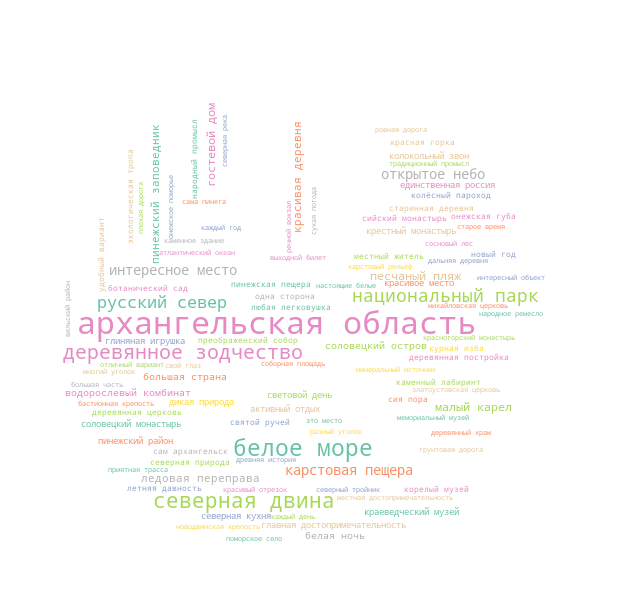
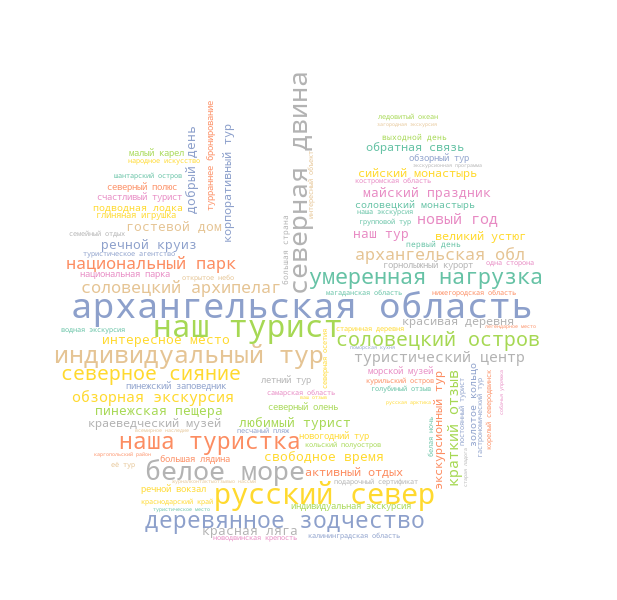
исправил некорректное сохранение некоторых url адресов, увеличил размер слов

Changed region(s): [[0.0924, 0.12, 0.893, 0.9]]

diff --git a/parser.py b/parser.py
@@ -1,8 +1,9 @@
 import requests
 from bs4 import BeautifulSoup
+from urllib.parse import unquote
 
 # URL страницы
-def get_links(query, num_pages=3):
+def get_links(query, num_pages=1):
     links = []
     for page in range(num_pages):
         start = page * 10 # сколько ссылок со страницы поиска возьмется
@@ -17,13 +18,17 @@ def get_links(query, num_pages=3):
             if parent and 'href' in parent.attrs:
                 url = parent['href']
                 border = url.find('&sa')
-                # print(url[7:border])
-                links.append(url[7:border])
+                # убираем лишние данные из url
+                url = unquote(url[7:border])
+                links.append(url)
 
     return links  # Возвращаем первые 5 ссылок
 
-user_query = "туристические места Архангельская область"
-urls = get_links(user_query)
+# user_query = "туристические места Архангельская область"
+# user_query = "Архангельская область природные достопримечательности"
+user_query = "Архангельская область отзывы у путешествии по региону"
+urls = get_links(user_query, 2)
+print(len(urls))
 # for url in urls:
 #     print(url)
 

diff --git a/main.py b/main.py
@@ -14,6 +14,7 @@ from nltk.collocations import *
 from nltk.tokenize import RegexpTokenizer
 import pymorphy3
 from collections import Counter
+from math import sqrt, ceil
 # при первом запуске раскомментить
 # nltk.download('punkt_tab')
 # nltk.download('omw-1.4')
@@ -88,7 +89,7 @@ def __get_pairs_n(all_counts):
     else:
       # выбираем оставляем неподходящие словосочетания или пропускаем
       continue
-      # norm_pairs.append((pair, freq))
+      # norm_pairs.append(((first, second), freq))
   return norm_pairs
 
 morph = pymorphy3.MorphAnalyzer()
@@ -111,14 +112,18 @@ n2 = get_pairs_n(result_string, 2)
 
 def gen_wordsForCloud():
   wordsForCloud = []
-  for pair, freq in n2.most_common(100):
+  num = 100
+  for pair, freq in n2.most_common(num):
     try:
       words = ' '.join(pair)
     except:
       pair = (pair[0].word, pair[1].word)
       words = ' '.join(pair)
 
-    for i in range(freq):
+    # уменьшаем разброс, чтобы редкие словосочетания не были мелкими
+    new_freq = ceil(sqrt(freq))
+    
+    for i in range(new_freq):
       wordsForCloud.append(words)
     # wordsForCloud.append(words)
   return wordsForCloud
